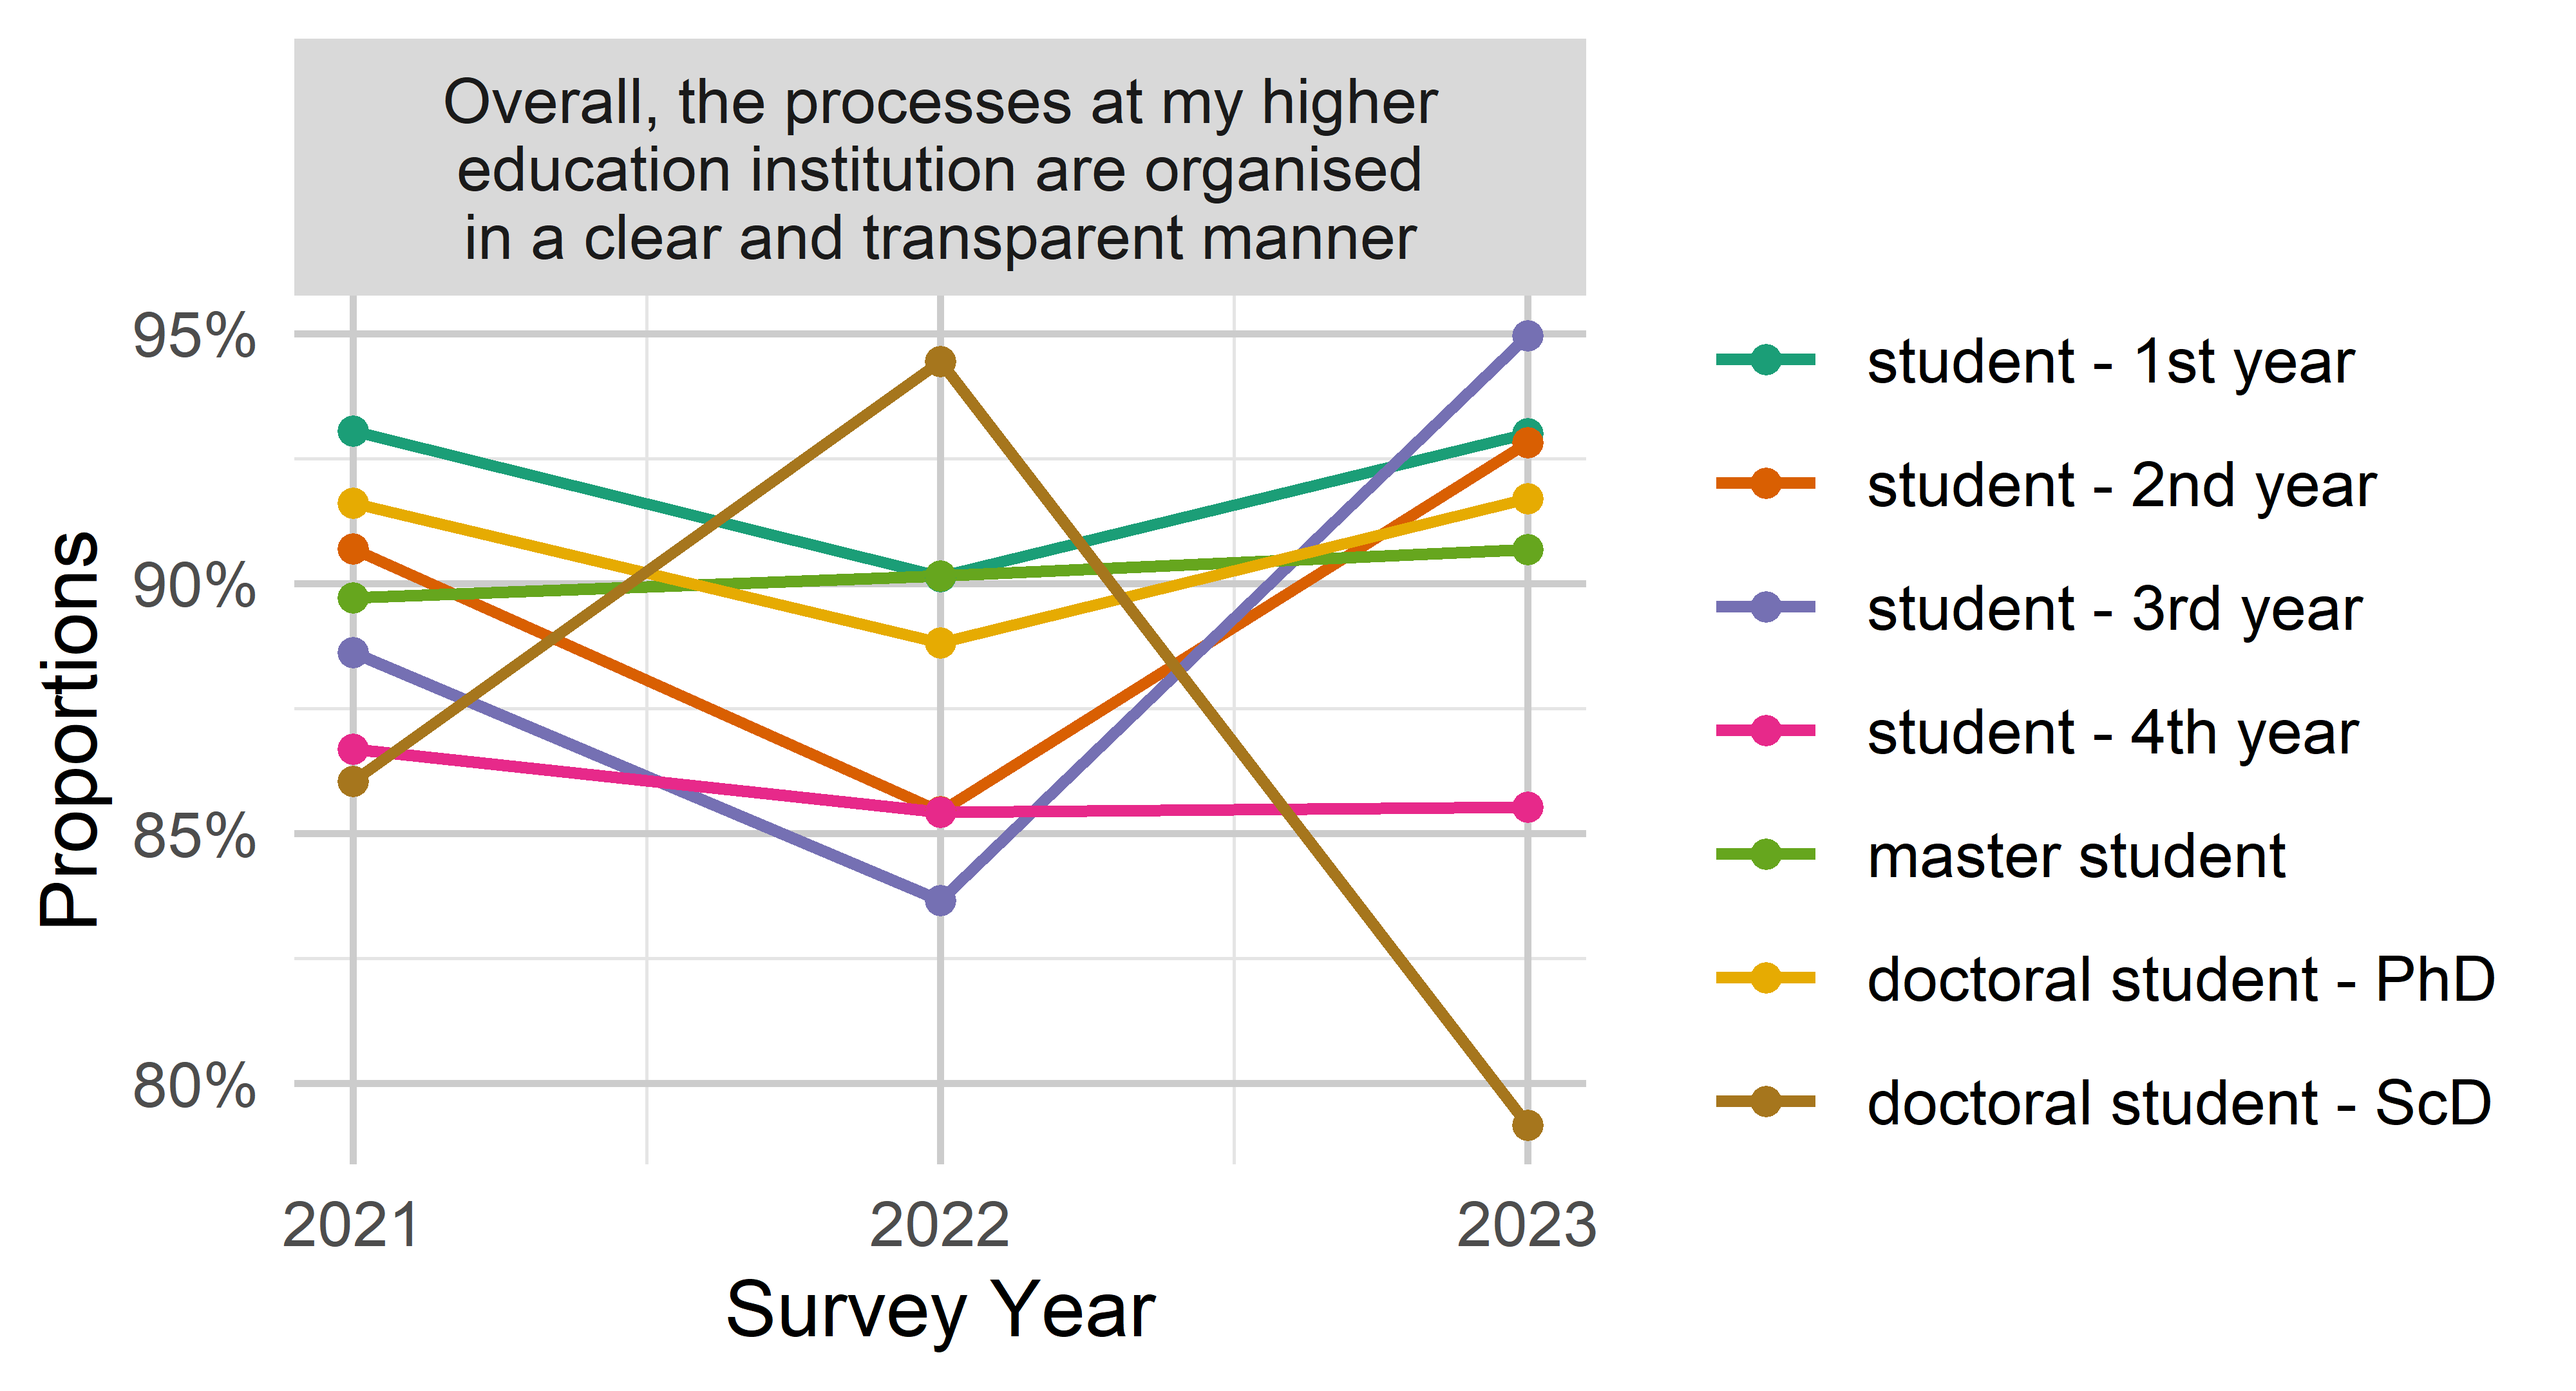
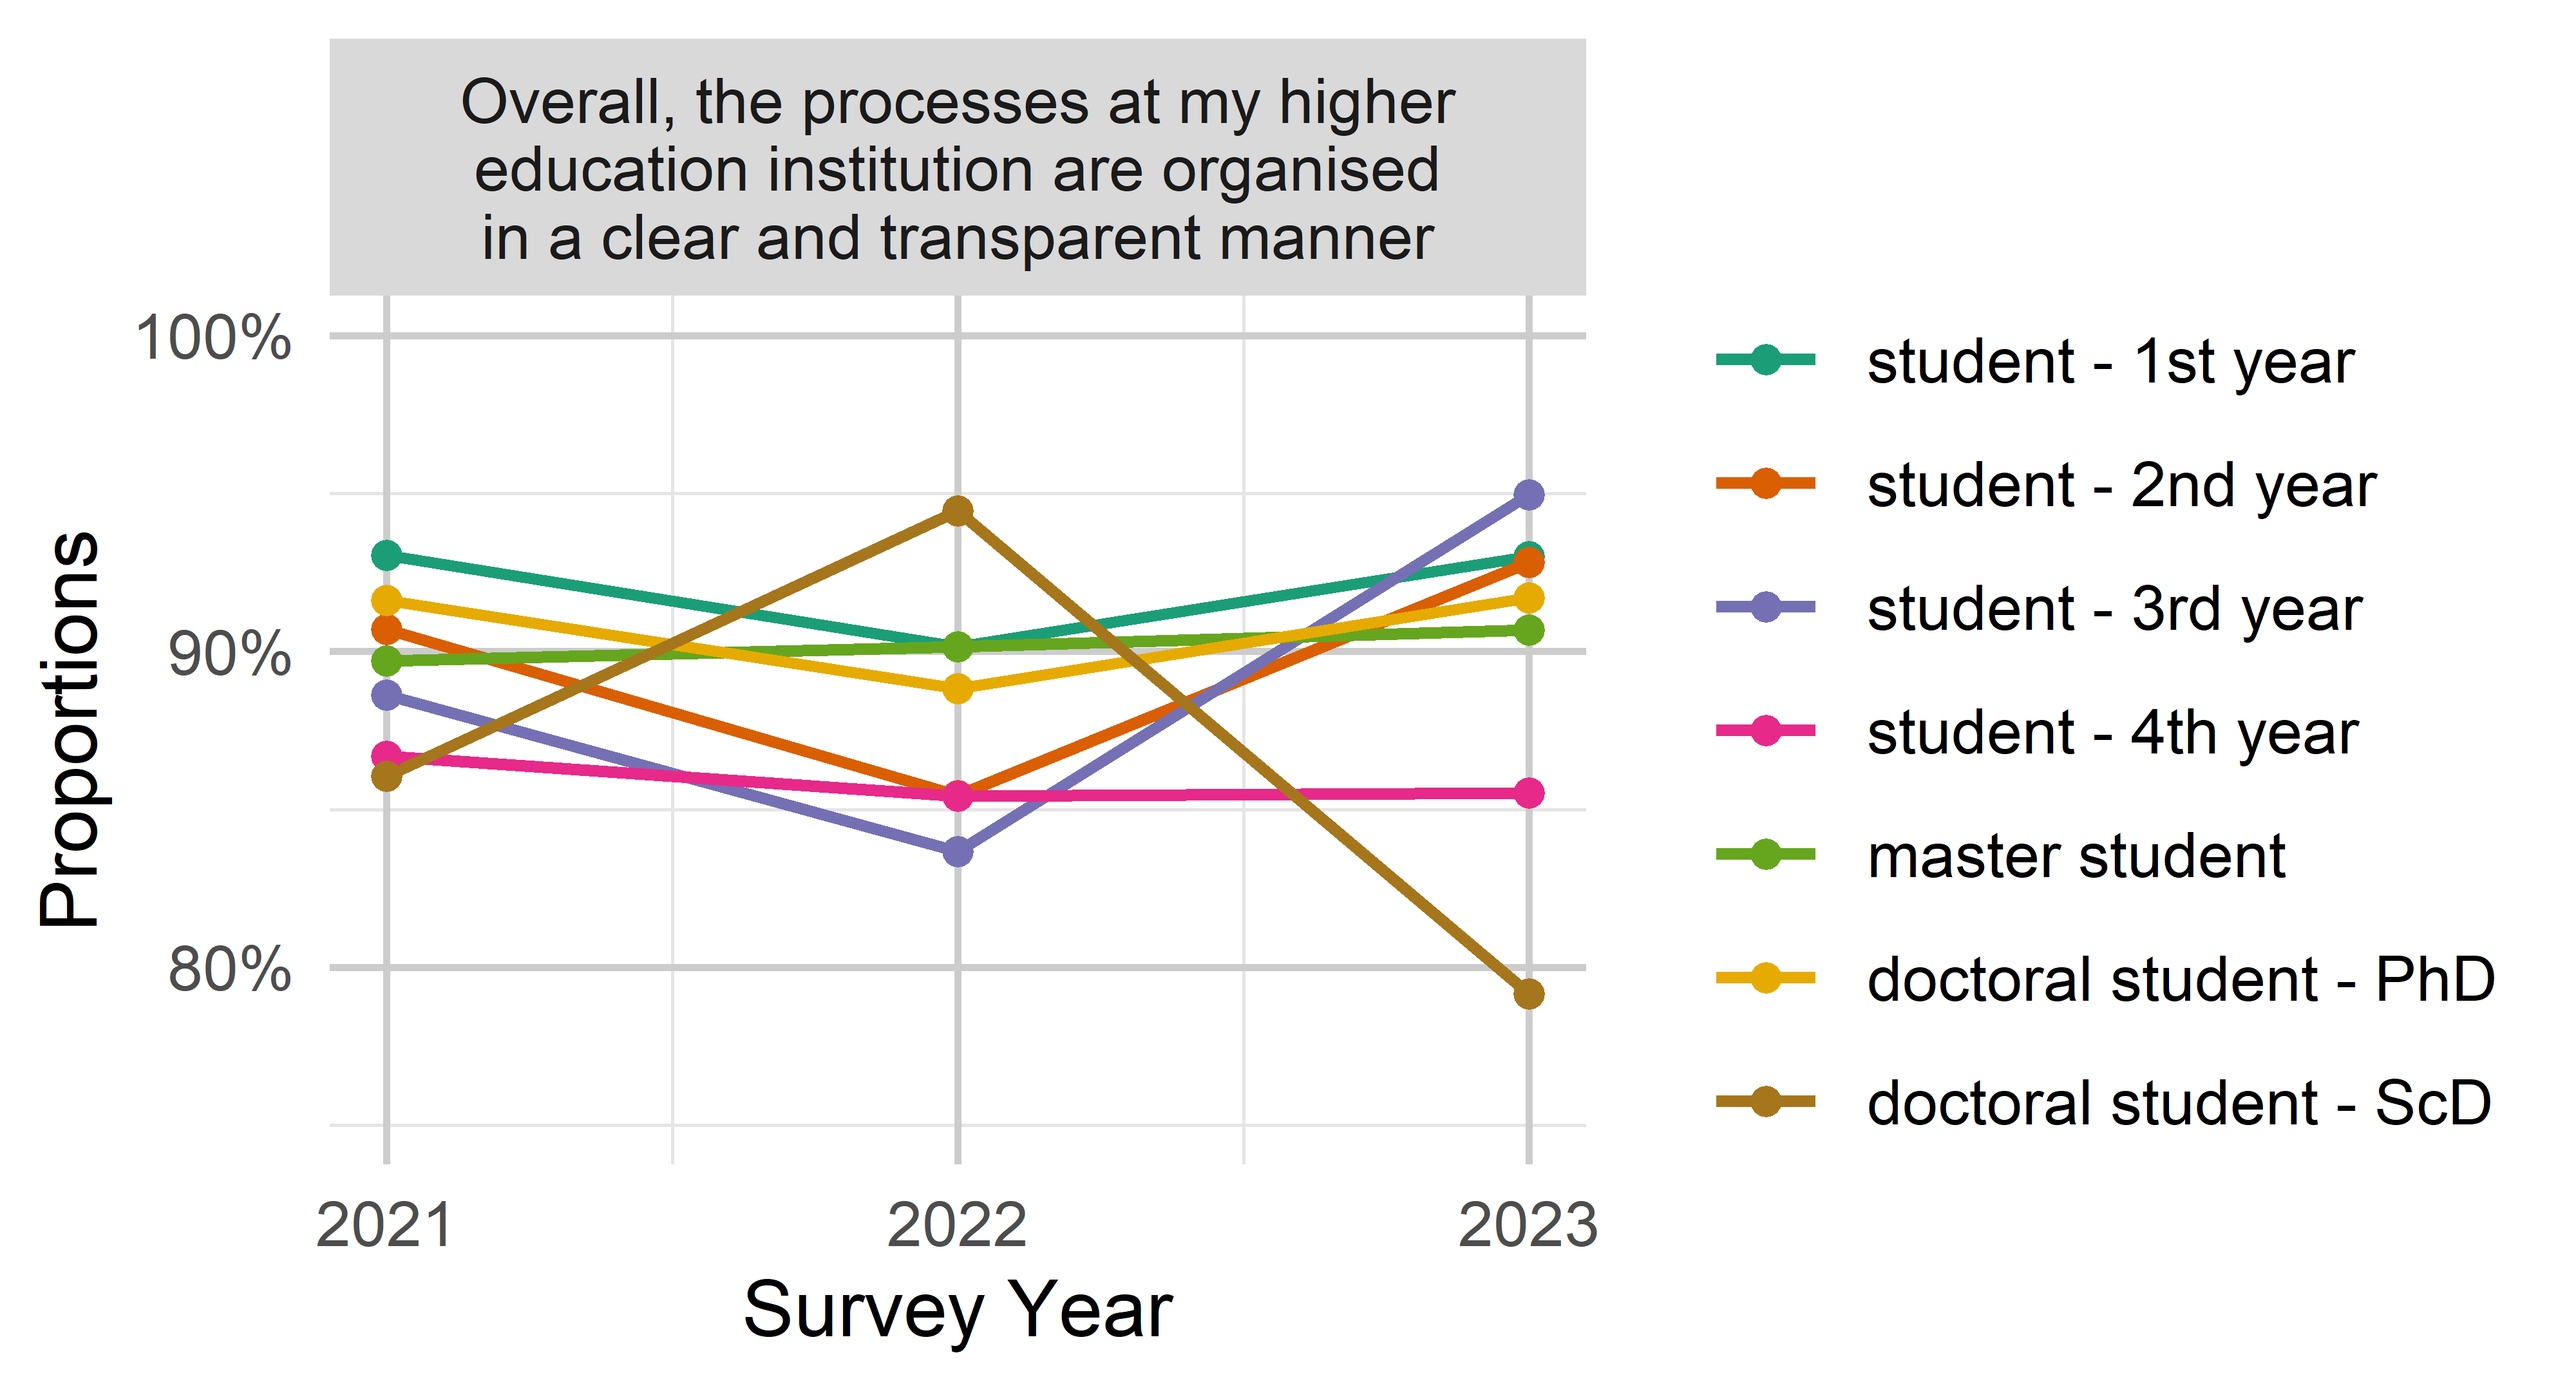
Change limits on other HEI processes group comparison plot

diff --git a/analysis_notebooks/survey_analysis_groups.html b/analysis_notebooks/survey_analysis_groups.html
@@ -11384,7 +11384,8 @@ pre > code.sourceCode > span > a:first-child::before { text-decoration: underlin
 <span id="cb29-2"><a href="#cb29-2" aria-hidden="true" tabindex="-1"></a>                 <span class="at">legend_reverse =</span> <span class="cn">FALSE</span>)</span>
 <span id="cb29-3"><a href="#cb29-3" aria-hidden="true" tabindex="-1"></a></span>
 <span id="cb29-4"><a href="#cb29-4" aria-hidden="true" tabindex="-1"></a>out<span class="sc">$</span>p <span class="sc">+</span></span>
-<span id="cb29-5"><a href="#cb29-5" aria-hidden="true" tabindex="-1"></a>  <span class="fu">theme</span>(<span class="at">legend.position =</span> <span class="st">"right"</span>)</span></code><button title="Copy to Clipboard" class="code-copy-button"><i class="bi"></i></button></pre></div>
+<span id="cb29-5"><a href="#cb29-5" aria-hidden="true" tabindex="-1"></a>  <span class="fu">theme</span>(<span class="at">legend.position =</span> <span class="st">"right"</span>) <span class="sc">+</span></span>
+<span id="cb29-6"><a href="#cb29-6" aria-hidden="true" tabindex="-1"></a>  <span class="fu">scale_y_continuous</span>(<span class="at">limits =</span> <span class="fu">c</span>(<span class="fl">0.75</span>, <span class="dv">1</span>), <span class="at">labels =</span> scales<span class="sc">::</span><span class="fu">label_percent</span>(), <span class="at">n.breaks =</span> <span class="dv">3</span>)</span></code><button title="Copy to Clipboard" class="code-copy-button"><i class="bi"></i></button></pre></div>
 <div class="cell-output-display">
 <p><img src="survey_analysis_groups_files/figure-html/hei_processes_students-1.png" class="img-fluid" width="2000"></p>
 </div>
@@ -11664,7 +11665,8 @@ pre > code.sourceCode > span > a:first-child::before { text-decoration: underlin
 <div class="sourceCode cell-code" id="cb38"><pre class="sourceCode r code-with-copy"><code class="sourceCode r"><span id="cb38-1"><a href="#cb38-1" aria-hidden="true" tabindex="-1"></a>out <span class="ot">&lt;-</span> <span class="fu">plot_time_groups</span>(df, var_overview, <span class="st">"X15"</span>, <span class="at">group_var =</span> survey)</span>
 <span id="cb38-2"><a href="#cb38-2" aria-hidden="true" tabindex="-1"></a></span>
 <span id="cb38-3"><a href="#cb38-3" aria-hidden="true" tabindex="-1"></a>out<span class="sc">$</span>p <span class="sc">+</span></span>
-<span id="cb38-4"><a href="#cb38-4" aria-hidden="true" tabindex="-1"></a>  <span class="fu">theme</span>(<span class="at">legend.position =</span> <span class="st">"right"</span>)</span></code><button title="Copy to Clipboard" class="code-copy-button"><i class="bi"></i></button></pre></div>
+<span id="cb38-4"><a href="#cb38-4" aria-hidden="true" tabindex="-1"></a>  <span class="fu">theme</span>(<span class="at">legend.position =</span> <span class="st">"right"</span>) <span class="sc">+</span></span>
+<span id="cb38-5"><a href="#cb38-5" aria-hidden="true" tabindex="-1"></a>  <span class="fu">scale_y_continuous</span>(<span class="at">limits =</span> <span class="fu">c</span>(<span class="fl">0.75</span>, <span class="dv">1</span>), <span class="at">labels =</span> scales<span class="sc">::</span><span class="fu">label_percent</span>(), <span class="at">n.breaks =</span> <span class="dv">3</span>)</span></code><button title="Copy to Clipboard" class="code-copy-button"><i class="bi"></i></button></pre></div>
 <div class="cell-output-display">
 <p><img src="survey_analysis_groups_files/figure-html/hei_processes_surveys-1.png" class="img-fluid" width="1800"></p>
 </div>
